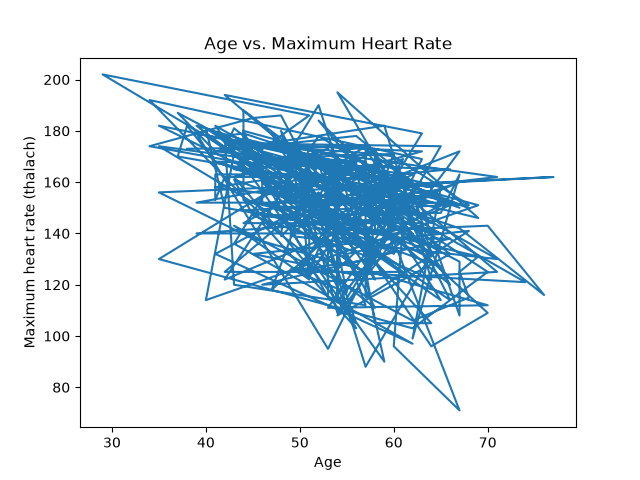
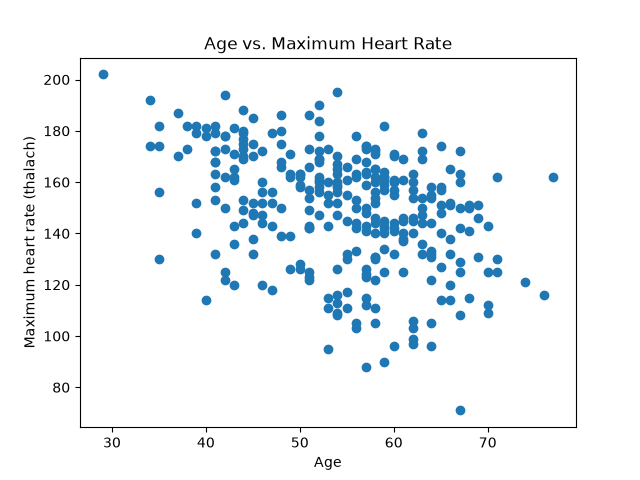
Plotting changes

Changed region(s): [[0.1562, 0.125, 0.875, 0.7812], [0.6562, 0.75, 0.75, 0.875]]

diff --git a/PW3/script.py b/PW3/script.py
@@ -96,7 +96,7 @@ y=df["thalach"]
 plt.xlabel("Age")
 plt.ylabel("Maximum heart rate (thalach)")
 plt.title("Age vs. Maximum Heart Rate")
-plt.plot(x,y)
+plt.scatter(x,y)
 plt.savefig("age_thalach.png")
 
 
